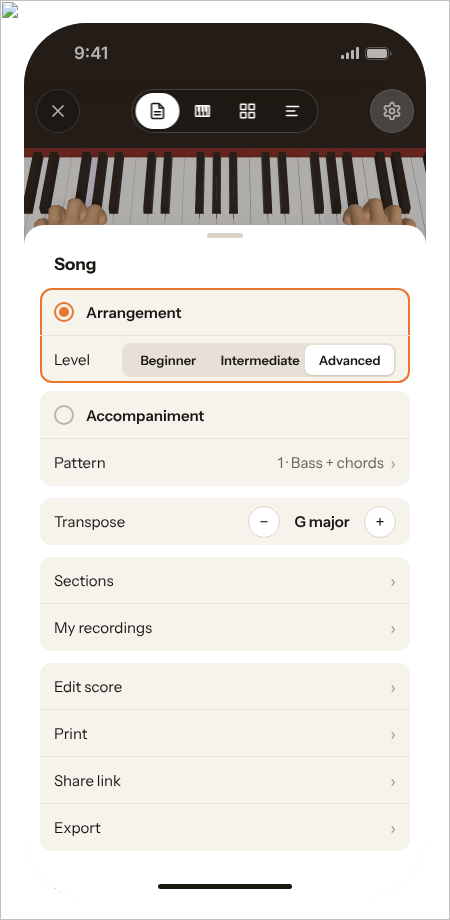
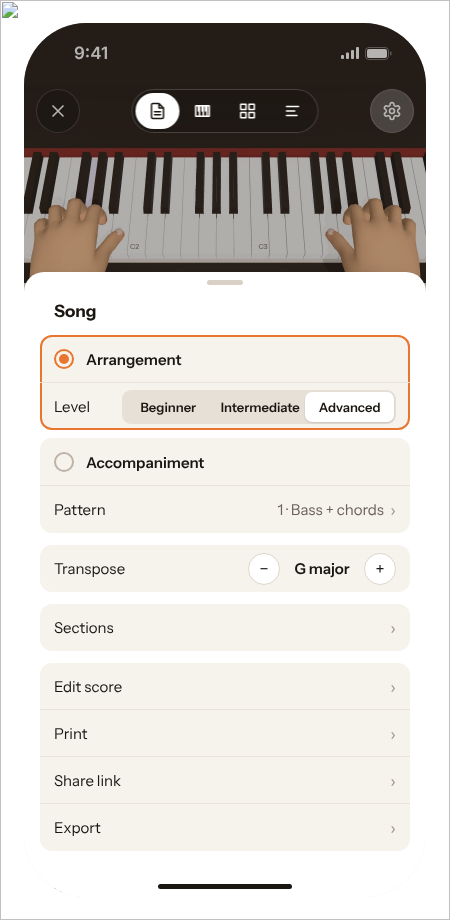
R37 plan: no My recordings, How did I play or Voice commands in the Player
Claude-Session: https://claude.ai/code/session_01BrtnH1Yf7S8aVU4w6rFSCU

diff --git a/.scratch/r37/plan/pace-and-settings.md b/.scratch/r37/plan/pace-and-settings.md
@@ -304,12 +304,14 @@ Export…) and Version · Transpose as foot tools.
 Stale lines in the rulings above, superseded later and to be read so: Song settings' "versions as tiles" and Placed's
 "Accompaniment goes in Practice" gave way to the Arrangement · Accompaniment cards (row 8).
 
-Ruled (owner, 2026-11-07: "i want the sections, the print, and share links to be ported. what else"): the Song gear
-ends with two groups, **Sections ›** · **My recordings ›** (each take with its feedback, so How did I play goes into
-it), then **Edit score ›** · **Print ›** · **Share link ›** · **Export ›**. Recommended, drawn, for the owner to confirm:
-**Annotations** become a Sheet Show chip, **Your annotations**, on by default (row 20); **Song information** goes (the
-score's title block and the song's page carry it); **Tuner** goes from the Player (its home is the Tools menu);
-**Voice commands** move to app Settings, a preference with one home. Keyboard shortcuts stay on `?`. Drawings:
+Ruled (owner, 2026-11-07: "i want the sections, the print, and share links to be ported. what else", then "remove
+my recordings, my how did i do, voice commands"): the Song gear ends with **Sections ›**, then **Edit score ›** ·
+**Print ›** · **Share link ›** · **Export ›**. R37-1 removes from the Player, code and strings with them: My
+recordings (`RecordingsSheet`, the Player's takes), How did I play (`FeedbackCard`, the take's verdicts on the score)
+and Voice commands (`useVoiceCommands`, its act), with no home elsewhere. The score editor's Record (`record-take`) is
+another thing and stays. Recommended, drawn, for the owner to confirm: **Annotations** become a Sheet Show chip,
+**Your annotations**, on by default (row 20); **Song information** goes (the score's title block and the song's page
+carry it); **Tuner** goes from the Player (its home is the Tools menu). Keyboard shortcuts stay on `?`. Drawings:
 `.scratch/r37/drawings/song-settings-acts.png`, `sheet-show-annotations.png`.
 
 ## Simple Pace, supersedes the three sections above (owner, 2026-11-07: "i don't like the mods titles and the tempo

diff --git a/.claude/skills/owner-way/references/feedback-log.md b/.claude/skills/owner-way/references/feedback-log.md
@@ -106,8 +106,8 @@ owner's, typos fixed.
     Reset · Show n) with its count on the button and removable chips; folders that fold by their header (Recently
     used and Favourites open, each book closed, its groups inside, Mine's own folders), Close all / Open all; rows with roll, hands line, level, Listen, heart. Never chips by
     kind, stars or cards two a row.
-  - The Player keeps Sections, Print and Share link (owner's words); the Song gear ends Sections · My recordings,
-    then Edit score · Print · Share link · Export.
+  - The Player keeps Sections, Print and Share link; the Song gear ends Sections, then Edit score · Print · Share
+    link · Export. No My recordings, no How did I play, no Voice commands, anywhere.
   - The metronome is Flat's: one Off · Count-in · On choice under the tempo, and Metronome sound › opens a page
     (sound list with a check, Volume, Back). A choice with its own list opens a page, as Flat's Playback options do.
   - No cursor or scrolling settings at all, neither a switch nor choices (rejected twice). The cursor moves by
